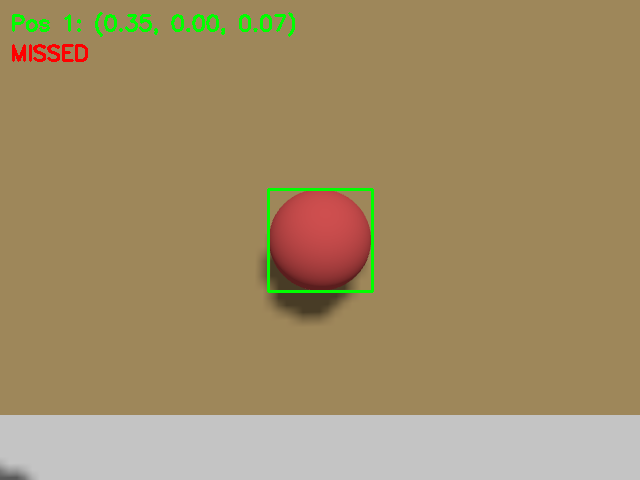
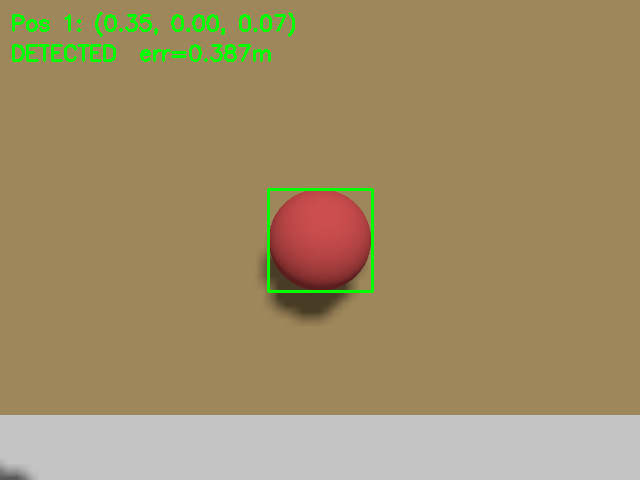
more detection tests

Changed region(s): [[0.0, 0.0938, 0.1875, 0.1562], [0.2188, 0.0938, 0.4375, 0.125]]

diff --git a/code/ros-gazebo-v1/ros2_ws/src/ur3e_gazebo/ur3e_gazebo/test_apple_detection.py b/code/ros-gazebo-v1/ros2_ws/src/ur3e_gazebo/ur3e_gazebo/test_apple_detection.py
@@ -61,6 +61,7 @@ class AppleDetectionTester(Node):
             10,
         )
         self._latest_location = None
+        self._latest_location_stamp = None
 
         self._latest_image = None
         self._latest_image_stamp = None
@@ -87,7 +88,7 @@ class AppleDetectionTester(Node):
         self.get_logger().info(f"Apple moved to ({x}, {y}, {z})")
         return True
 
-    def _wait_for_fresh_image(self, prev_stamp, timeout=5.0):
+    def _wait_for_fresh_data(self, prev_img_stamp, prev_loc_stamp, timeout=5.0):
         deadline = time.time() + timeout
 
         while time.time() < deadline:
@@ -97,12 +98,29 @@ class AppleDetectionTester(Node):
                 continue
 
             # Wait until we get a strictly newer frame
-            if prev_stamp is None or (
-                self._latest_image_stamp.sec > prev_stamp.sec or
-                (self._latest_image_stamp.sec == prev_stamp.sec and
-                self._latest_image_stamp.nanosec > prev_stamp.nanosec)
-            ):
+            img_new = (prev_img_stamp is None or (
+                self._latest_image_stamp.sec > prev_img_stamp.sec or
+                (self._latest_image_stamp.sec == prev_img_stamp.sec and
+                self._latest_image_stamp.nanosec > prev_img_stamp.nanosec)
+            ))
+
+            if not img_new:
+                continue
+            
+            if self._latest_location_stamp is None:
+                continue
+
+            # Wait until we get a strictly newer frame
+            loc_new = (prev_loc_stamp is None or (
+                self._latest_location_stamp.sec > prev_loc_stamp.sec or
+                (self._latest_location_stamp.sec == prev_loc_stamp.sec and
+                self._latest_location_stamp.nanosec > prev_loc_stamp.nanosec)
+            ))
+
+            if img_new and loc_new:
                 return True
+            
+
 
         return False
 
@@ -151,7 +169,8 @@ class AppleDetectionTester(Node):
             self._latest_location = None
 
             # Capture timestamp before moving
-            prev_stamp = self._latest_image_stamp
+            prev_img_stamp = self._latest_image_stamp
+            prev_loc_stamp = self._latest_location_stamp
 
             self.get_logger().info(
                 f"\n=== Test {i}/5: moving apple to ({x}, {y}, {z}) ==="
@@ -163,12 +182,14 @@ class AppleDetectionTester(Node):
 
             time.sleep(1.0) 
 
-            got_image = self._wait_for_fresh_image(prev_stamp, timeout=5.0)
+            got_data = self._wait_for_fresh_data(prev_img_stamp, prev_loc_stamp, timeout=5.0)
 
-            if not got_image:
-                self.get_logger().warn(f"No new image after move {i}")
+            if not got_data:
+                self.get_logger().warn(f"No new data after move {i}")
 
             self._save_image(i, x, y, z)
+        self._write_summary()
+    
     def _write_summary(self):
         path = os.path.join(OUTPUT_DIR, "test_summary.txt")
         with open(path, "w") as f:
@@ -193,6 +214,7 @@ class AppleDetectionTester(Node):
 
     def _location_callback(self, msg: PointStamped):
         self._latest_location = msg
+        self._latest_location_stamp = msg.header.stamp
 
 
 def main(args=None):
